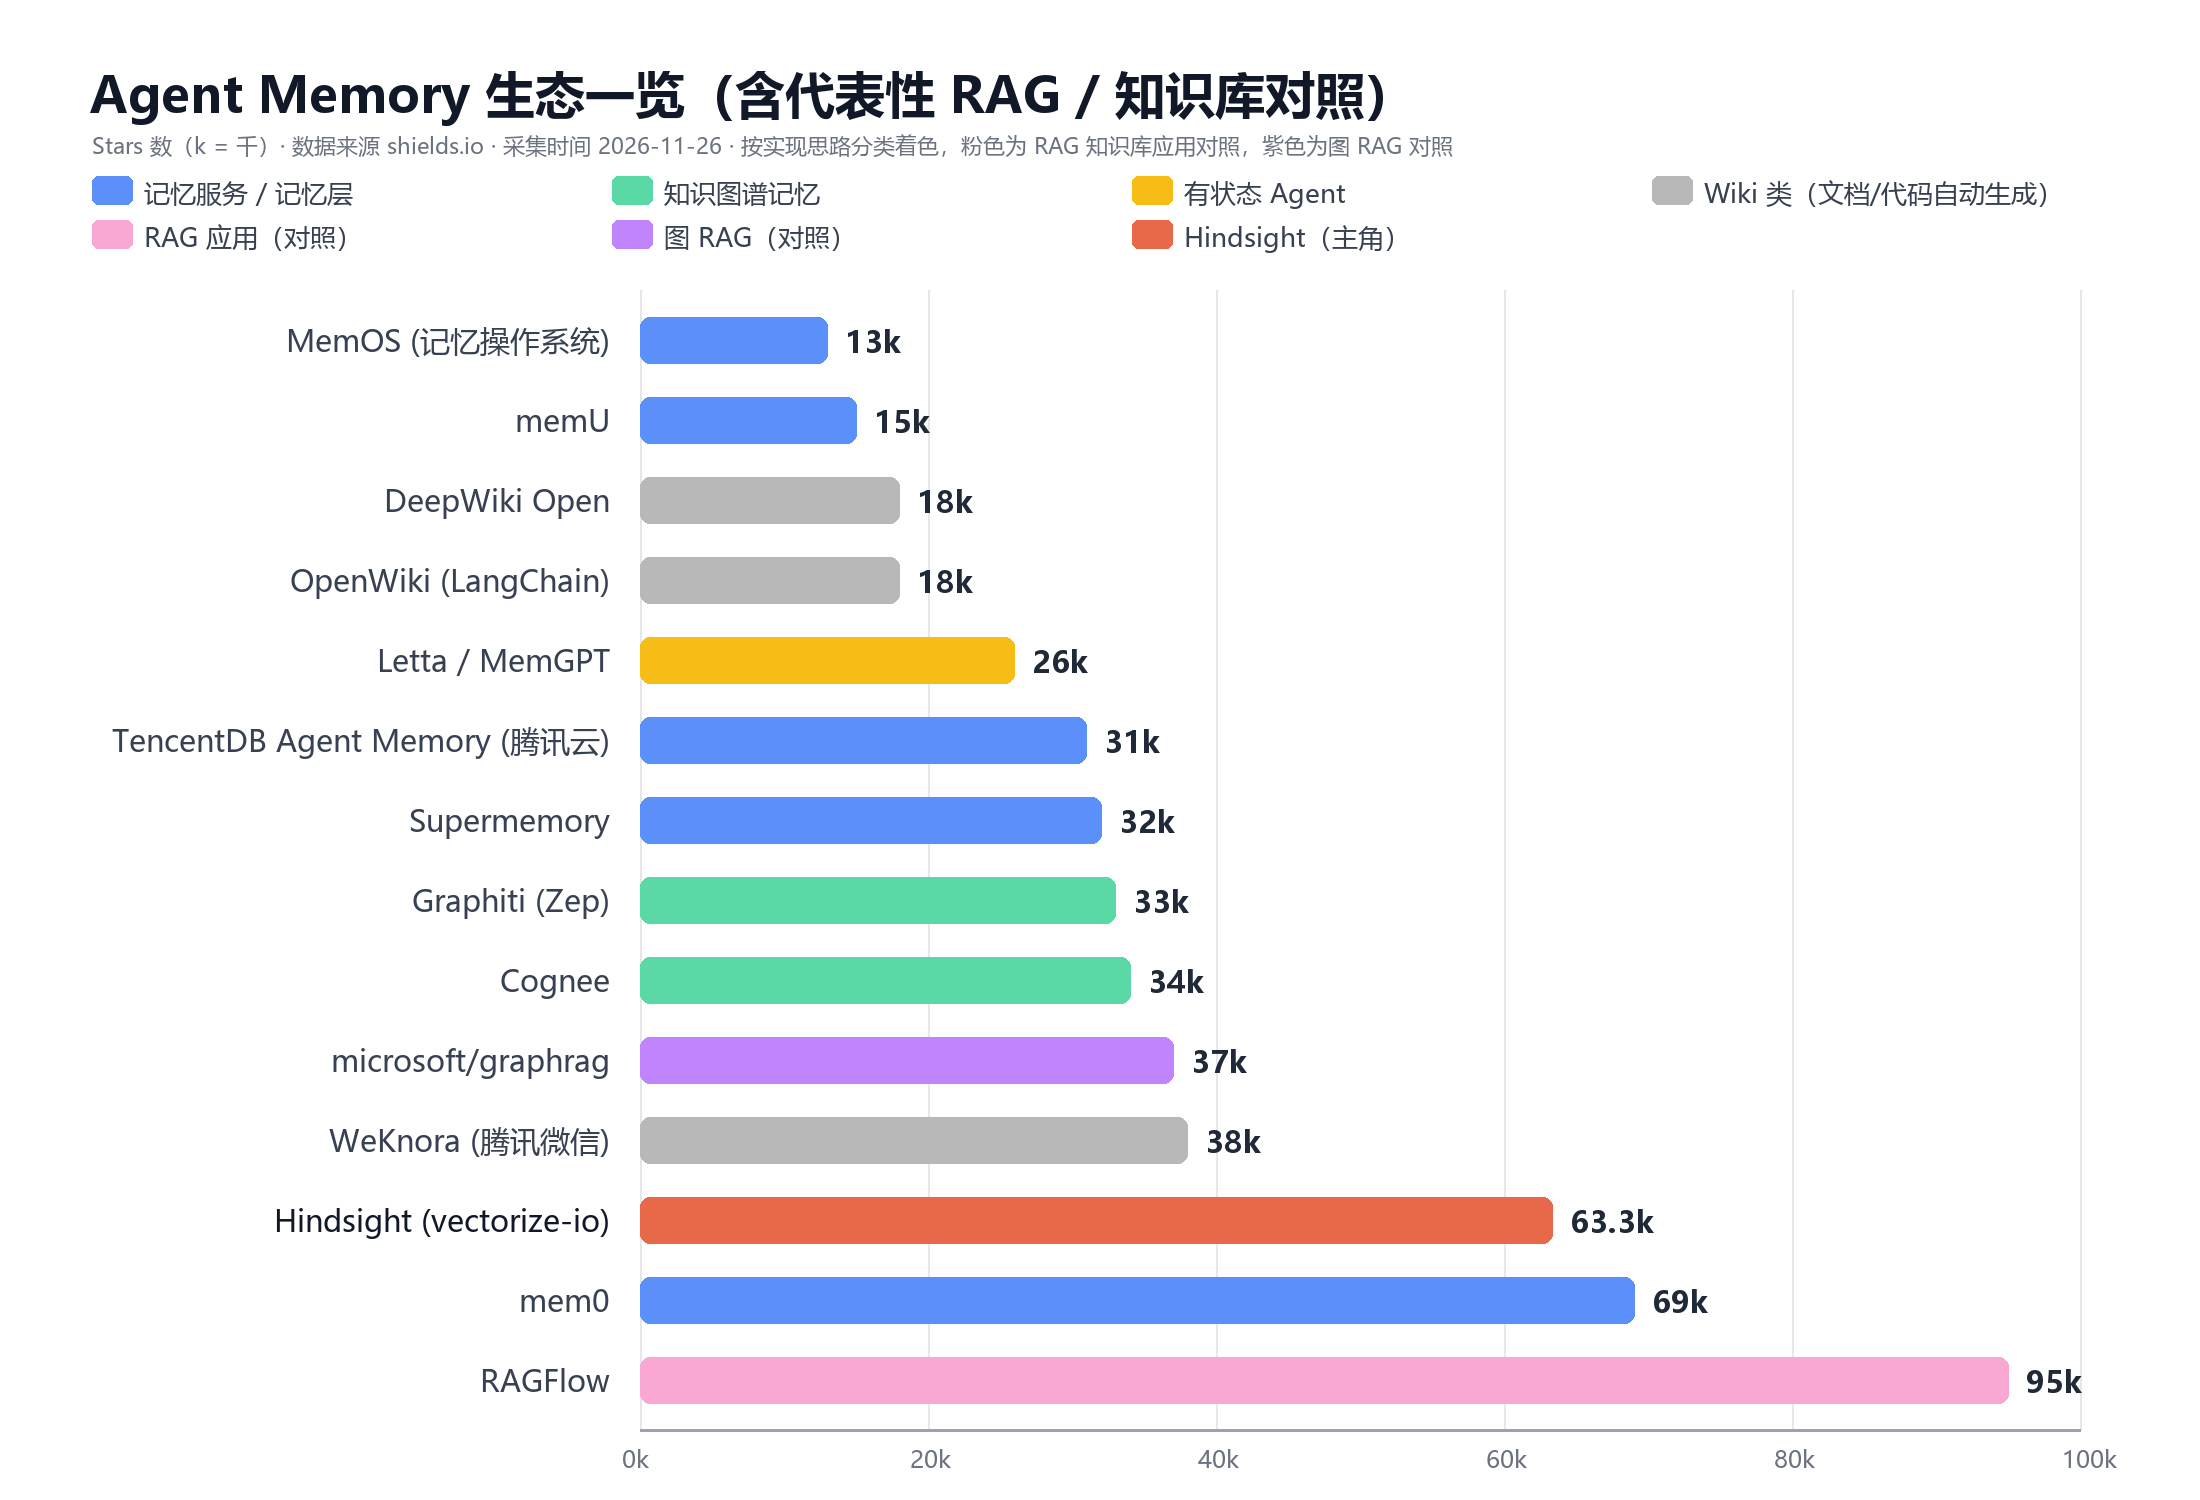
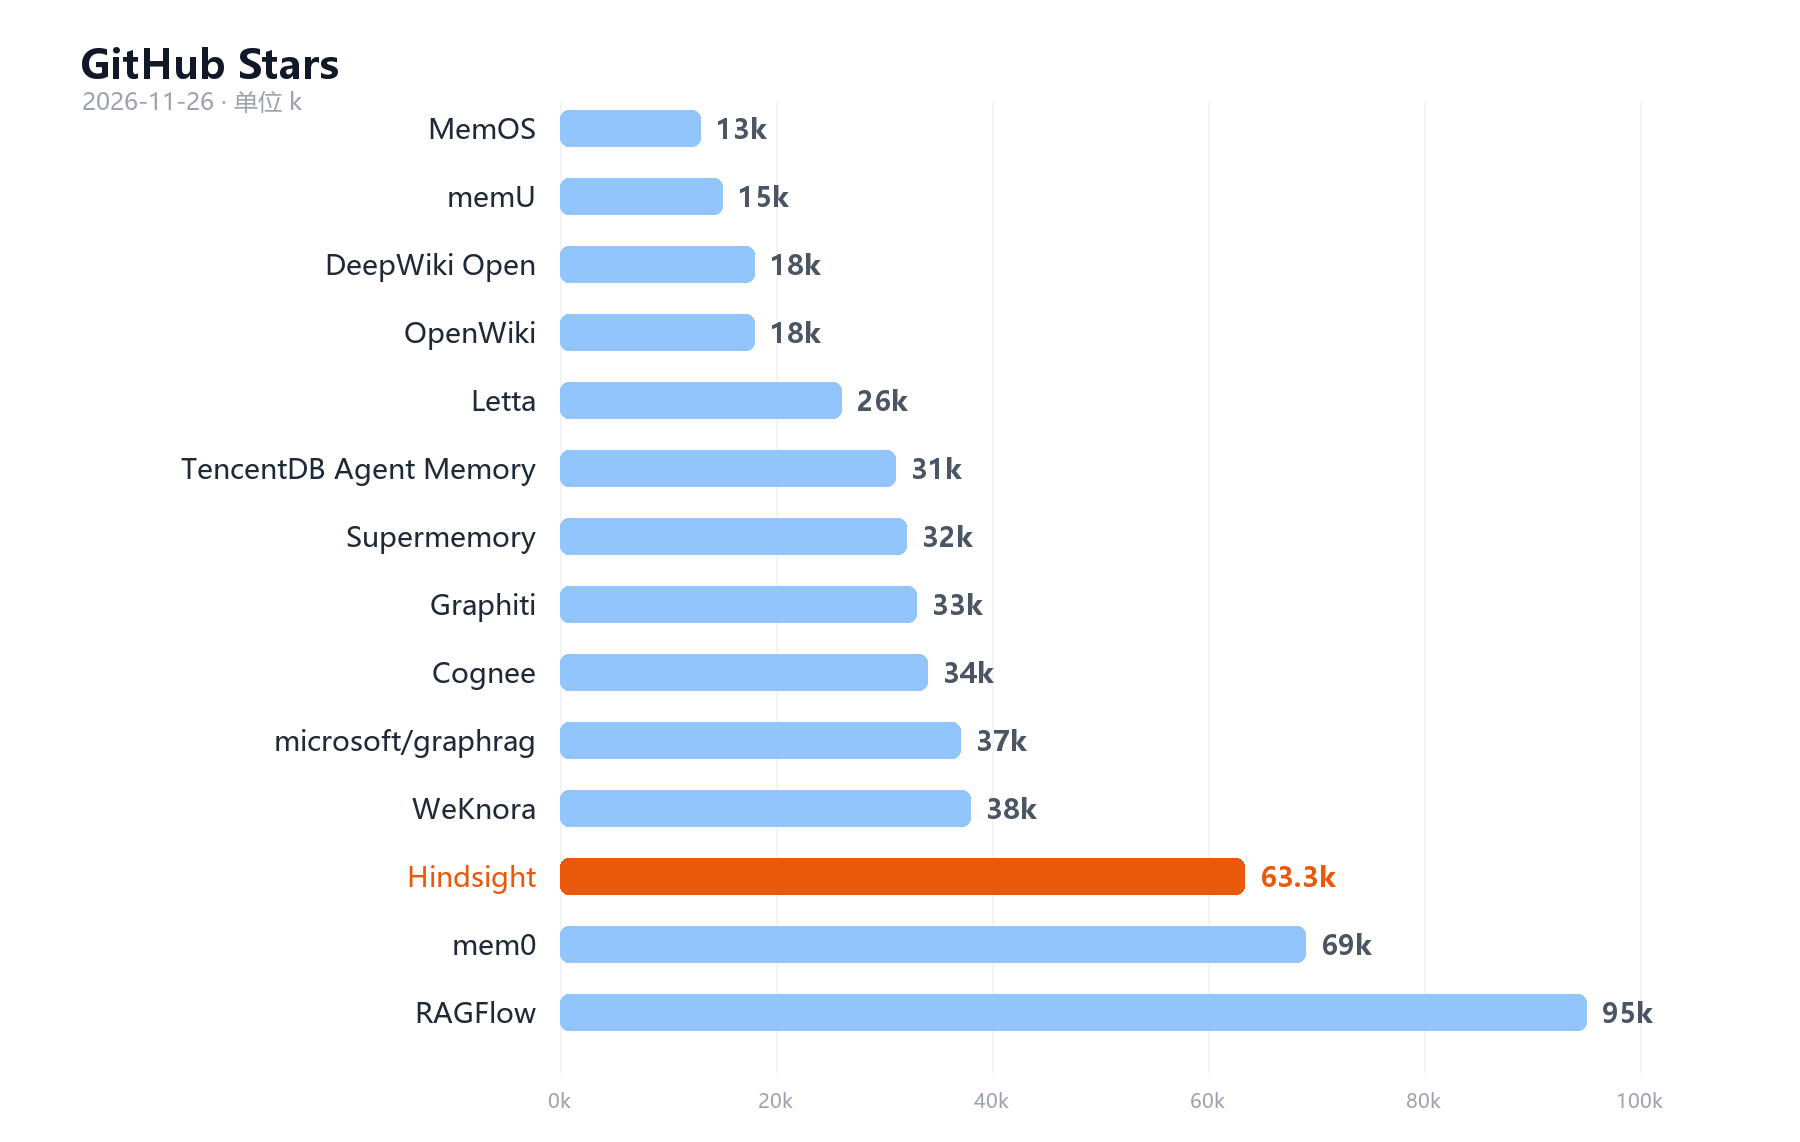
趋势一节改为连贯叙述；重画 Stars 图，去掉分类和备注

Changed region(s): [[0.0311, 0.0306, 0.9644, 0.9807], [0.7467, 0.1226, 0.9333, 0.1532]]

diff --git a/README.md b/README.md
@@ -5,12 +5,11 @@
 
 ---
 
-## 0. 一句话总结
+## 0. 开场
 
-> **代码能告诉 Agent "是什么"，但告诉不了它 "为什么"。**
-> 过去一年我试了 Code Graph、RAG 知识库、Deep Wiki 等几类工具，最后落到 Hindsight 上——它解决的不是"把文档塞给 AI"，而是**把团队做过的决定、踩过的坑、达成过的共识，在 Agent 开工之前放到它面前**。
->
-> 而且它没有抛弃知识库：**Memory Bank 管"现在什么成立"，Knowledge Bank 管"原文写了什么"，两者链接、一次查询、冲突时文档为准。** 这就是我理解的"知识库 + Agent Memory"的正确融合方式。
+代码能告诉 Agent "是什么"，但告诉不了它"为什么"。过去一年我试了 Code Graph、RAG 知识库、Deep Wiki，最后落到 Hindsight 上。它解决的不是"把文档塞给 AI"，而是把团队做过的决定、踩过的坑、达成过的共识，在 Agent 开工之前放到它面前。
+
+它也没有把知识库扔掉。Hindsight 把会变的记忆和不变的文档分成两种 bank，再链接到一起：一次查询两边都读，冲突的时候以文档为准。这是我觉得它做得最对的一件事，也是今天重点要讲的。
 
 ---
 
@@ -68,42 +67,23 @@
 
 ---
 
-## 2. GitHub 生态：一张图看清格局
+## 2. 现在到了哪一步
 
-![Agent Memory 生态一览（含代表性 RAG / 知识库对照）](./github-stars.png)
+![GitHub Stars](./github-stars.png)
 
-| 项目 | ⭐ | 路线 | 一句话 |
-|---|---:|---|---|
-| **[Hindsight](https://github.com/vectorize-io/hindsight)** | **63.3k** | **记忆服务** | **"Agent Memory That Learns"，本次主角，有论文** |
-| [mem0](https://github.com/mem0ai/mem0) | 69k | 记忆层 SDK / 服务 | "The Memory Layer for AI Agents"，最出圈的一个，从 Python 库长成平台 |
-| [Cognee](https://github.com/topoteretes/cognee) | 34k | 知识图谱记忆 | "AI memory → graphs"，图谱派代表 |
-| [Graphiti (Zep)](https://github.com/getzep/graphiti) | 33k | 时序知识图谱 | 强调时间维度："这个事实什么时候成立、什么时候被推翻" |
-| [Supermemory](https://github.com/supermemoryai/supermemory) | 32k | 记忆引擎 | "Memory & context engine"，偏消费端 / 个人 |
-| [TencentDB Agent Memory](https://github.com/TencentCloud/TencentDB-Agent-Memory) | 31k | 团队记忆 Hub | 腾讯云，90 天破 2 万 star，原生 Team Memory，CodeBuddy 用户零成本接入 |
-| [Letta](https://github.com/letta-ai/letta) | 26k | 有状态 Agent | 前 MemGPT，LLM-as-OS 的记忆分页，Agent 自己管理记忆 |
-| [WeKnora](https://github.com/Tencent/WeKnora) | 38k | Wiki 类（腾讯微信） | 企业知识平台：RAG + ReAct Agent + **自维护 Wiki** + 长期记忆，一个自托管系统全包 |
-| [DeepWiki Open](https://github.com/AsyncFuncAI/deepwiki-open) | 18k | Wiki 类 | 给仓库自动生成文档（见 1.3），严格说是"知识"不是"记忆" |
-| [OpenWiki](https://github.com/langchain-ai/openwiki) | 18k | Wiki 类 | LangChain 官方出的 CLI，和 DeepWiki 同一思路；这类"LLM-Wiki"路线见 1.3 |
-| [memU](https://github.com/NevaMind-AI/memU) | 15k | 记忆层 | 开源记忆，偏多 Agent 协作 |
-| [MemOS](https://github.com/memtensor/MemOS) | 13k | 记忆操作系统 | 把记忆当"操作系统"调度：调度、生命周期、治理 |
-| *RAGFlow* | *95k* | *RAG 知识库应用（对照）* | *深度文档理解（DeepDoc），表格 / 扫描件 / 复杂版式解析最强——知识库应用里的代表* |
-| *microsoft/graphrag* | *37k* | *图 RAG（对照）* | *微软的图 RAG 参考实现，用知识图谱做"全局性"问题——RAG 里最接近"记忆"思路的一支* |
+图里是 Agent Memory 这条线上拿得出手的项目，外加 RAGFlow 和 GraphRAG 两个 RAG 做参照。几个值得知道的：mem0 是最出圈的一个，从 Python 库长成了平台；腾讯有两个，云团队的 Agent Memory 和微信团队的 WeKnora，后者把 RAG、Agent、自维护 Wiki 打包成了一个平台；Letta 是原来的 MemGPT；DeepWiki 和 OpenWiki 是给代码库自动生成文档的，1.3 节会讲为什么我放着不用了。
 
-> 知识库那一大类（RAGFlow、AnythingLLM、Open WebUI……）绝大多数本质都是 RAG，这里只放一个应用类的加一个图 RAG 做对照；LlamaIndex 那种是构建库的框架，Dify 那种是编排平台，都不算。Wiki 类（WeKnora、DeepWiki、OpenWiki）是"预编译文档"路线，见 1.3。
+**RAG 已经是基础设施，记忆还不是。** RAGFlow 一个项目就 95k star，说明"能问文档的机器人"早就是标配了，没有谁会因为这个觉得你厉害。但 Agent Memory 这边最高的 mem0 也才 69k，而且各家做法差别很大，没有标准答案。这对我们意味着：知识库直接选一个部署就行，不用自己造；真正值得花时间的是记忆这一层，因为它还在变。
 
-**五个观察**：
+**记忆这件事，去年和今年问的问题不一样了。** 去年大家关心的是"库里有什么"——怎么把文档切好、embedding 选哪个、召回率多少。今年 Hindsight、mem0、腾讯几家都在说同一件事：Agent 经历过的东西怎么留下来、留下来的东西怎么随新信息更新、哪些该忘掉。对象从文档变成了经历。这是 RAG 和记忆最根本的区别，也是第 3 节要展开的。
 
-1. **知识库和记忆是两个品类，规模差一个量级。** RAGFlow 一个应用就 95k、Hindsight 63k——"搭一个能问文档的机器人"已经是标配基础设施，不是差异化；**记忆是正在爆发的新品类**，还没有标准答案。所以知识库我们选一个自托管部署就行，值得团队投入的是记忆这一层。
+**形态上，记忆从一个库变成了一个服务。** mem0 最早是 import 进来的 Python 包，现在主推的是平台；Hindsight 从第一天就是 API 服务；腾讯的直接叫 Memory Hub。原因不复杂：记忆如果只住在一个进程里，就只能在那个进程里用。要跨 Agent、跨会话、跨人，它就得是一个大家都能连的服务。这也是我们为什么不走本机 daemon，而是内网自托管。
 
-2. **从"检索文档"到"学习经验"。** RAG 找段落，知识图谱找关系，记忆这一代——Hindsight、mem0、腾讯——的核心词变成了 **"记住、更新、遗忘"**。重点不再是"库里有什么"，而是"Agent 经历了什么，它学到了什么"。
+**用记忆的人在变。** 以前记忆是给聊天机器人记用户偏好的，现在最大的用户是写代码的 Agent。Hindsight 官方列了 20 多个 Coding Agent 集成，腾讯 8 月发了 Team Memory，Hindsight 用 `mapPathToBank` 让多个仓库共享一个 bank。为什么是 Coding Agent？因为它最缺的就是"这个项目以前为什么这么定"的上下文，而这恰恰是代码里没有的。
 
-3. **从"嵌入式库"到"独立服务"。** mem0 早期是个 Python 库，现在主推平台；Hindsight 从第一天就是 API 服务；腾讯的直接叫 "Memory Hub"。原因很简单：**记忆要跨 Agent、跨会话、跨成员共享，就不能住在某一个进程里**。
+**还有一个变化，是我觉得最有意思的。** Hindsight 11 月 24 号发了 Knowledge Banks，把"会变的记忆"和"不变的文档"分成两种 bank 再链接起来；腾讯的四类资产里也是把 Chat Memory 和 LLM-Wiki、Code-Graph 分开放。两家不约而同在干同一件事：承认记忆和知识不是一回事，不该硬塞在一起，但又必须一起用。这就是 3.4 节要讲的重点。
 
-4. **Coding Agent 成了第一入口，"团队记忆"成了新关键词。** Hindsight 官方列了 20+ 个 Coding Agent 集成；腾讯 8 月发 Team Memory；Hindsight 用 `mapPathToBank` 做多仓库共享。**记忆的价值在共享时才指数增长**——一个人记得的是自己的决定，十个人记得的是整个团队的。
-
-5. **"记忆"和"知识"开始分家。** Hindsight 11 月 24 日刚发 [Knowledge Banks](https://hindsight.vectorize.io/blog/2026/11/24/knowledge-banks)：**Memory Bank 管"会变的东西"，Knowledge Bank 管"不变的东西"**，链接后一次查询同时读。腾讯也是四类资产：Chat Memory、Skill、**LLM-Wiki**、**Code-Graph**——两家都在把记忆和知识分开管、一起用。这就是 3.4 要讲的重点。
-
-> 另外一个数字：[AMB sdebench](https://agentmemorybenchmark.ai/dataset/sdebench) 上，有无记忆每个 Agent **准确率都是 60-61/61**——好 Agent 本来就能做对。差距在**纠错次数**（Claude Code 0.85 → 0.36 次/任务）和**成本**（Codex $0.577 → $0.276/任务）。**记忆的价值不是让它更聪明，是让它少猜、少返工。**
+最后一个数字，关于记忆到底值不值。[AMB 的 sdebench](https://agentmemorybenchmark.ai/dataset/sdebench) 拿 61 个真实仓库任务跑 Claude Code、Codex、opencode，有记忆和没记忆比：**准确率都是 60 到 61 题，几乎没差**。好 Agent 本来就能做对。差的是纠错次数（Claude Code 从每任务 0.85 次降到 0.36）和成本（Codex 从 $0.577 降到 $0.276）。所以记忆的价值不在于让 Agent 更聪明，在于让它少猜、少返工。
 
 ---
 
